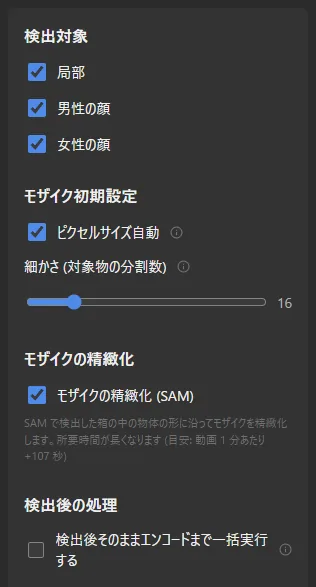
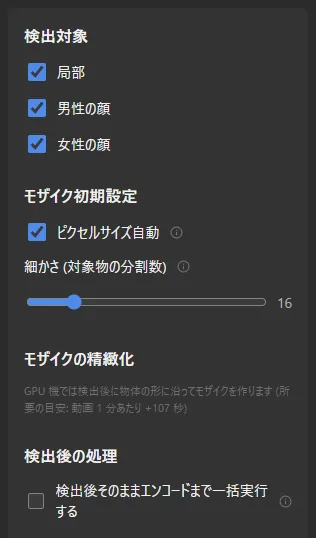
docs: T-708 / T-706 のスクリーンショット撮り直し (検出オプション = SAM のチェックボックス撤去後の説明節、プラン選択 = 「+ 維持管理費用 / 月」)。2.6.0 のビルドで撮影、<img> の寸法を同期

diff --git a/_includes/docs/03-detect.html b/_includes/docs/03-detect.html
@@ -150,7 +150,7 @@ batch / queue は TICKET-SITE-44 で追加。定義表は `.kv` 部品 (src/app.
     </figure>
     <figure class="my-4">
       <img src="/assets/img/screenshots/detect-options-panel.webp" alt="検出対象とモザイク初期設定"
-           width="316" height="587" loading="lazy" decoding="async" style="max-width:316px;width:100%;height:auto;margin:0 auto"
+           width="316" height="538" loading="lazy" decoding="async" style="max-width:316px;width:100%;height:auto;margin:0 auto"
            class="block rounded-[10px] border border-edge">
       <figcaption class="mt-2 text-[12.5px] text-ink-4">検出対象とモザイク初期設定</figcaption>
     </figure>
